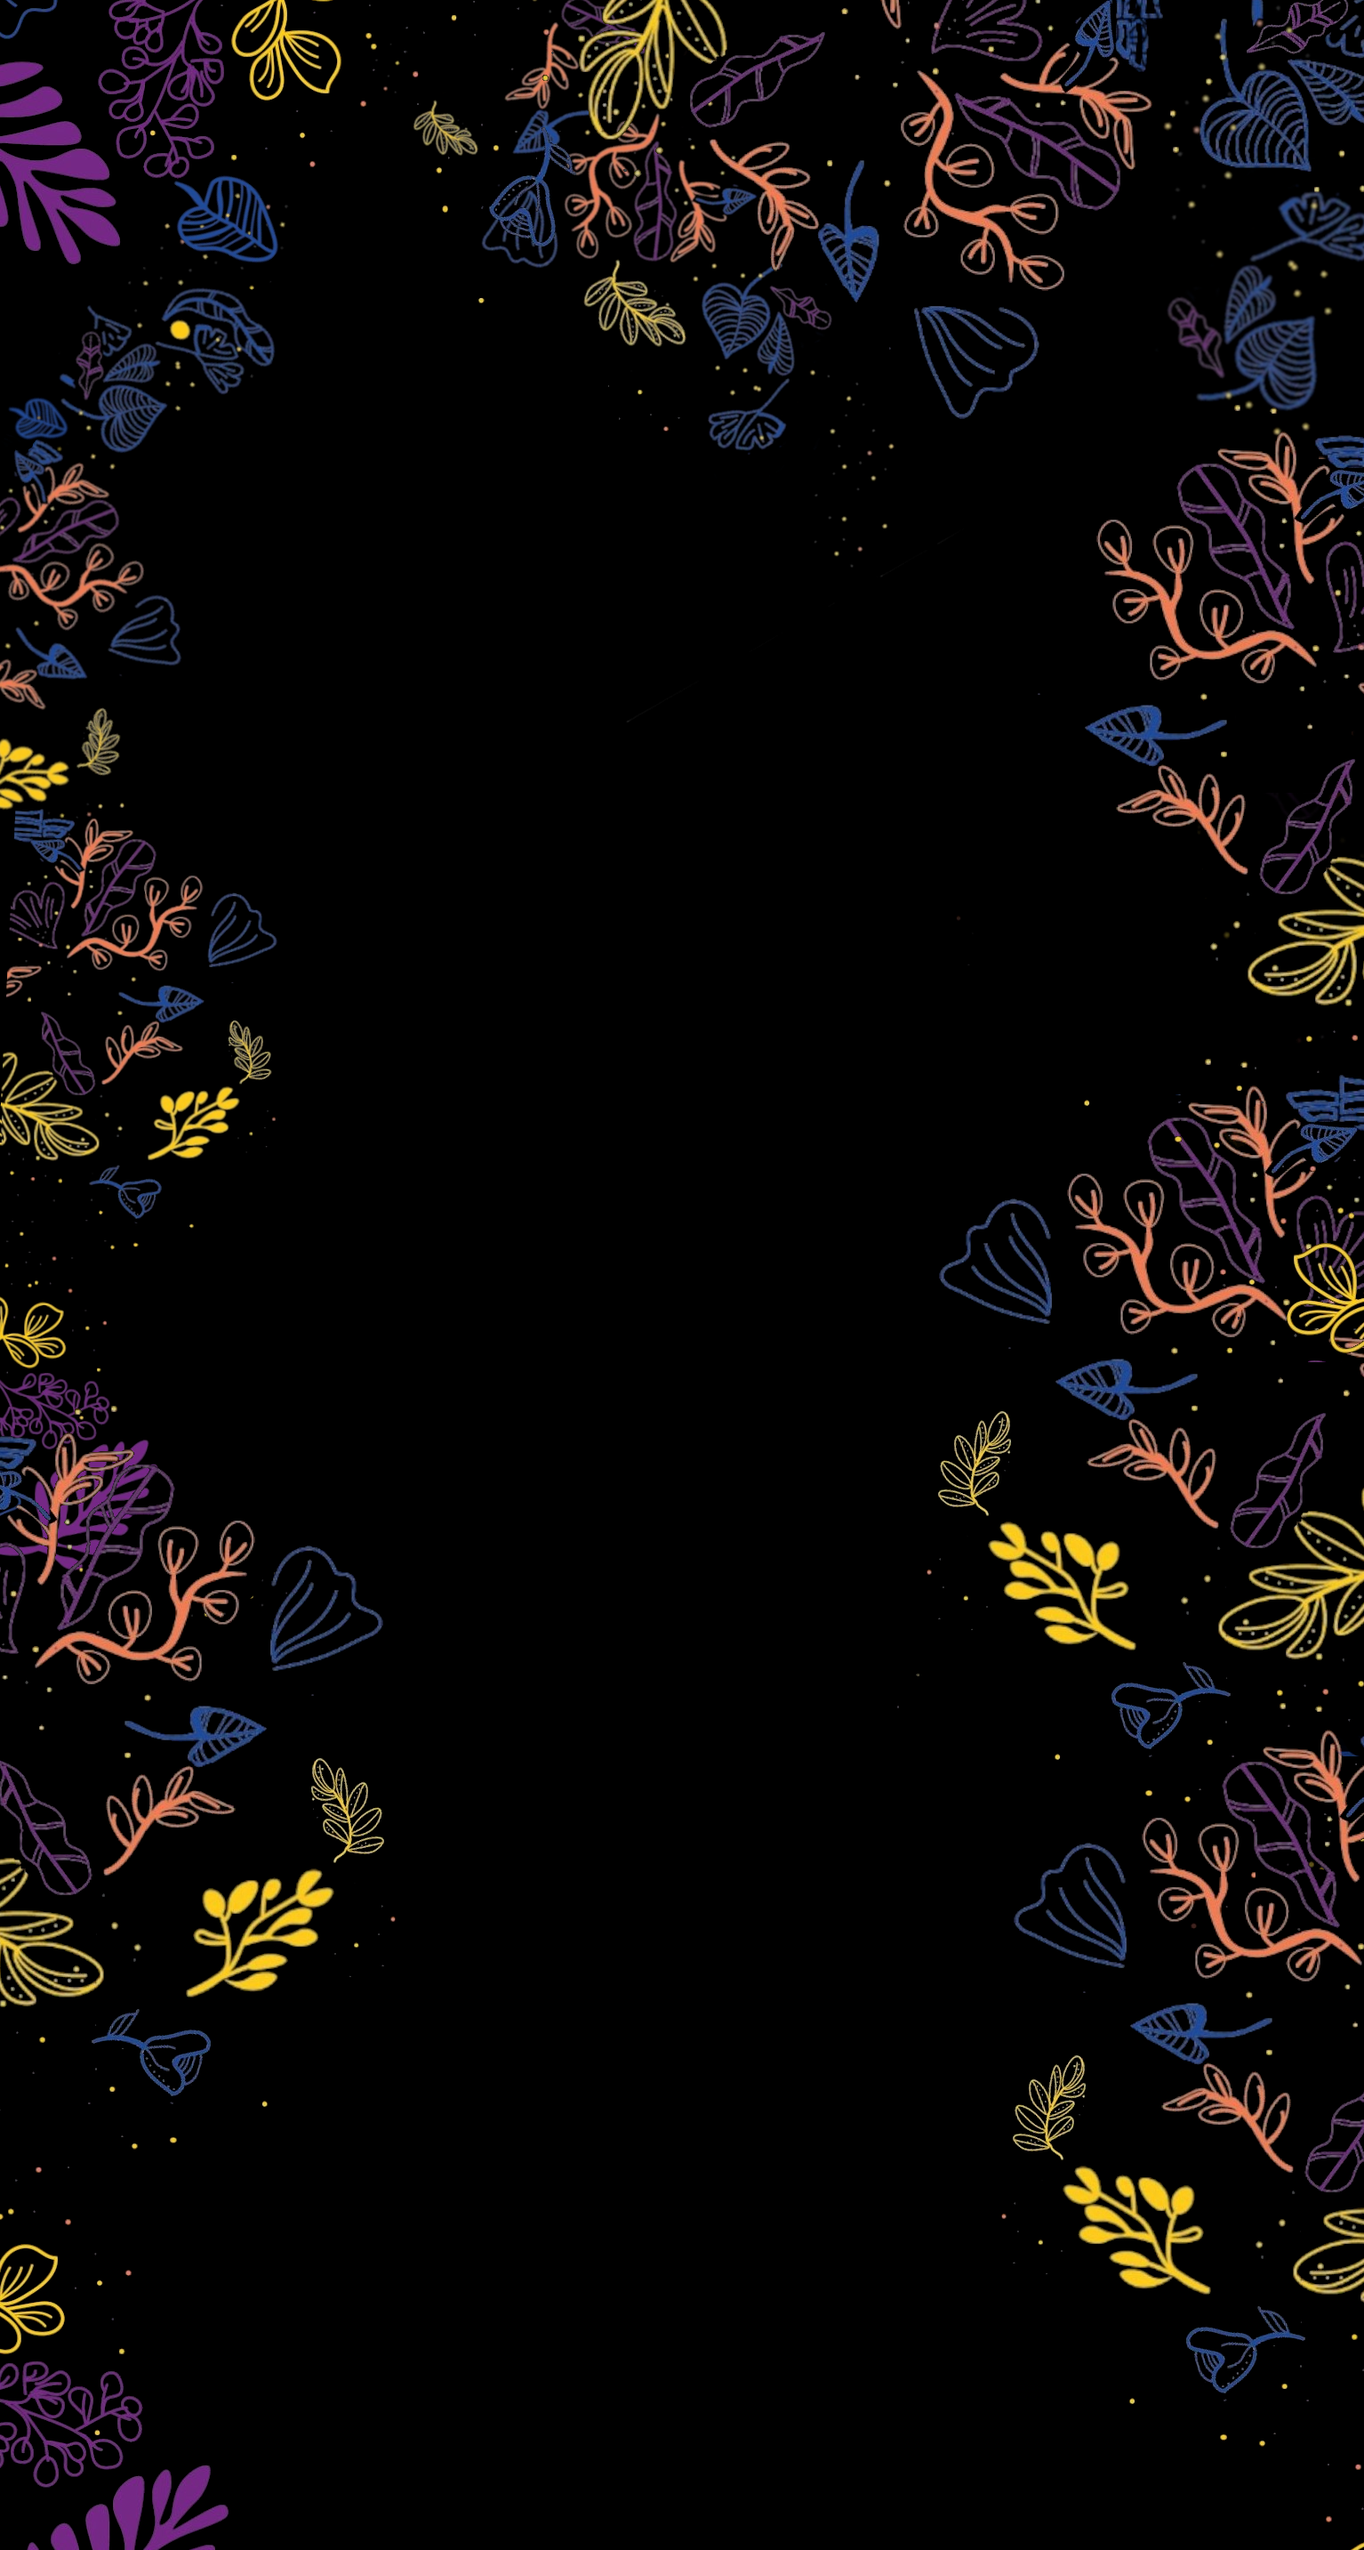
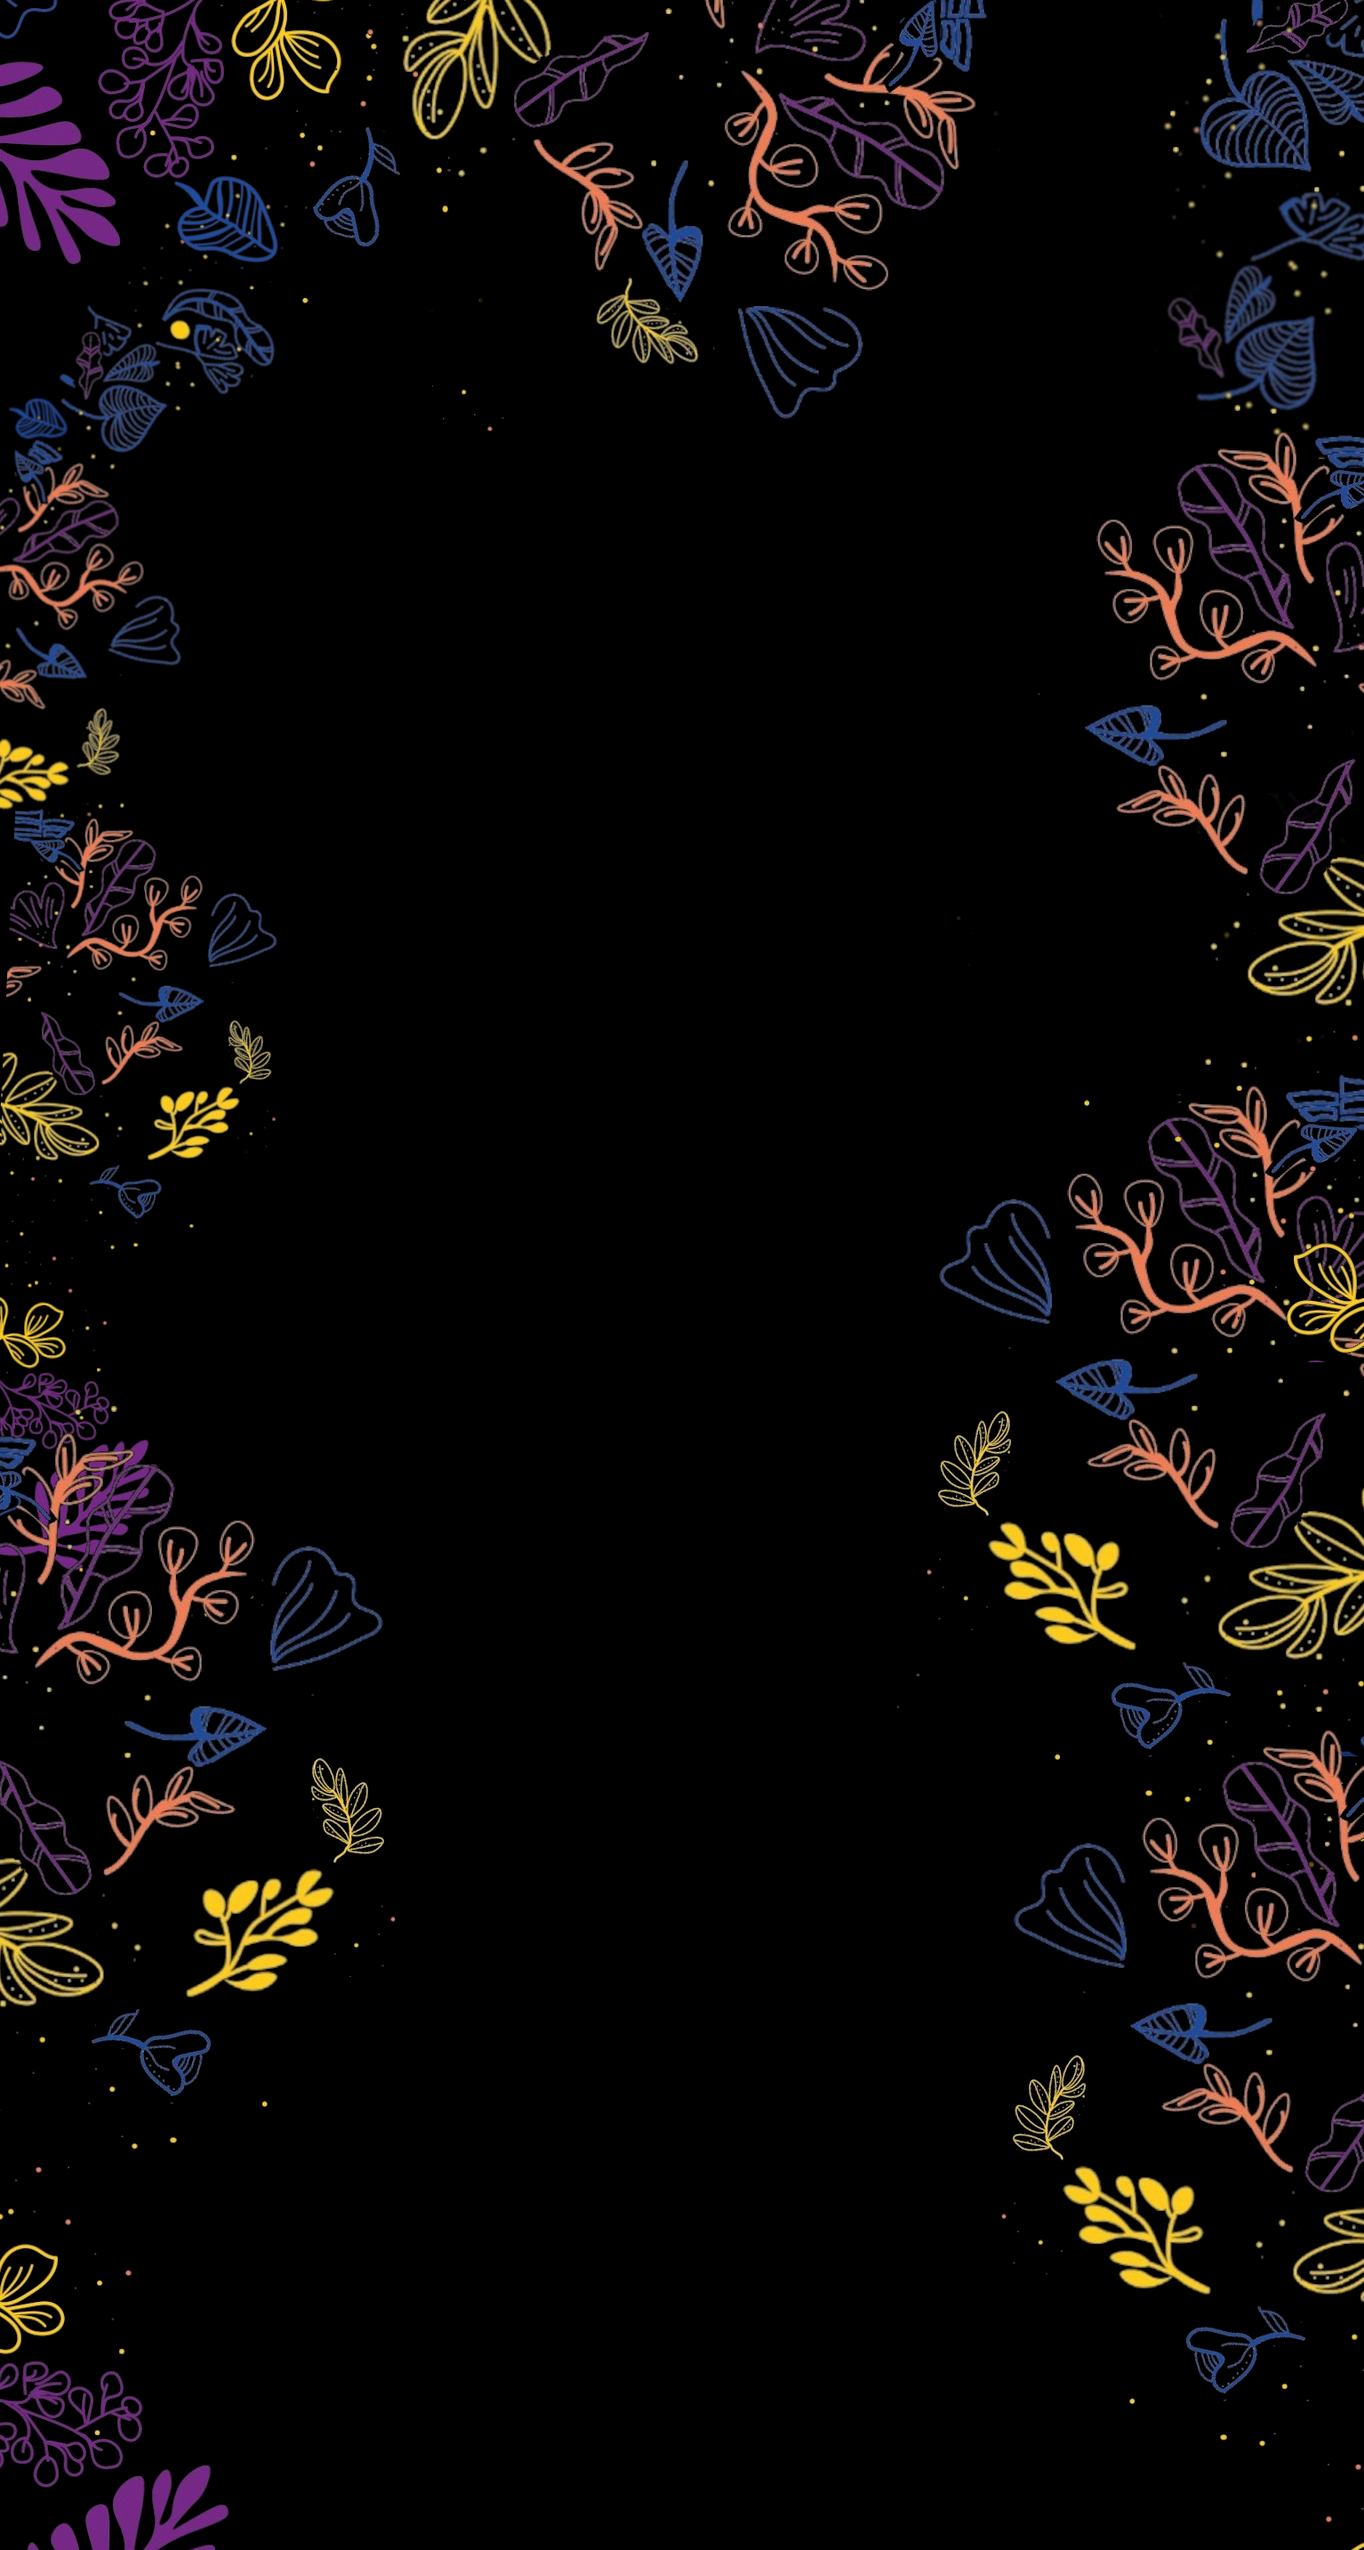
25 de marzo

Changed region(s): [[0.2757, 0.0, 0.8579, 0.1863], [0.2145, 0.0621, 0.2757, 0.0932]]

diff --git a/index.html b/index.html
@@ -20,7 +20,7 @@
 <body data-spy="scroll" data-target=".navbar" data-offset="40" id="home">
         
 
-    <img id="fondo" src="assets/imgs/fondo03.png" alt="">
+    <img id="fondo" src="assets/imgs/fondo05.png" alt="">
 
 
     <!-- Page Navbar -->
@@ -234,18 +234,21 @@
             <!-- About wrapper -->
             <div class="about-wrapper">
                
-                <div class="content">
+                <div class="content7">
                     <!-- row -->
                     <div class="row" >
                         <div class="col-md-8">
-                            <p>Desde el año 2013 enfocamos nuestros talleres en las inquietudes y búsquedas de cada persona. Nuestro objetivo es generar un ámbito agradable para el encuentro con la Música que contribuya al desarrollo de las capacidades, la creatividad y permita un espacio para la exploración y el juego.</p>                        
-                            <p>Dictamos clases individuales y grupales en días y horarios a convenir. Durante el año lectivo organizamos encuentros de repertorio para nutrir el proceso de aprendizaje mediante el intercambio de experiencias.</p>
+                            <h3>Talleres, prácticas y encuentros.</h3>
+                            <p>Nuestro objetivo es generar un ámbito agradable para el encuentro con la Música.</p>
+                            <p>Desde el año 2013 brindamos clases individuales y grupales.</p>
                             <p>Nuestros días y horarios de actividades son de lunes a viernes de 10 a 21 y sábados de 10 a 15hs. Estamos ubicados en el barrio de Caseros <i class="ti-location-pin"></i></p>
-                            <p>También brindamos clases On-Line <i class="ti-rss-alt"></i></p>
-                            <p>Organizamos: <a href=""> Noelia Cabral</a> y <a href=""> Alejandro Rúfolo</a>.</p>
-                            <p><i class="ti-email"></i>  info@espacioraiz.com.ar</p>
-                        <a href="www.instagram.com/espacio.raiz.musica"><i class="ti-instagram"></i> @espacio.raiz.musica</a>
+                            <p>También brindamos clases On-Line al resto del mundo <i class="ti-rss-alt"></i></p>
+                            <p>Organizamos: <a href=""> <b> Noelia Cabral</b></a> y <a href=""> <b> Alejandro Rúfolo</b></a>.</p>
+                            <p><i class="ti-email"></i><b> info@espacioraiz.com.ar</b></p>
+                            <p>Encontranos en en IG
+                            <a href="www.instagram.com/espacio.raiz.musica"><i class="ti-instagram"></i><b> @espacio.raiz.musica</b></a></p>
                         </div>
+
                         <div class="col-md-4">
                             <img src="assets/imgs/fondo01b.jpeg" width="100%">
                         </div>   
@@ -273,14 +276,15 @@
 
                         <div class="col-md-6" style="padding-left: 5%; padding-right: 5%;">
                             <h3>Encuentros de repertorio</h3>
-                            <p> Durante el año organizamos presentaciones para nutrir el proceso de aprendizaje mediante el intercambio de experiencias. </p>
+                            <p> El compartir, el llevar la música en vivo a diferentes partes, el interpretar a nuestrxs artistas, el expresarnos, el ritual, la música, el aprendizaje, el intercambio.
+                                Todo eso y mucho más nos lleva a organizar los encuentros de repertorio en diferentes espacios culturales y teatros.
+                                 </p>
                             <p> <a href="galeria.html"><button class="btn btn-primary">Galería</button> </a>
                             </p>
                             
                            
                            
-                                <p>También estamos en IG</p>
-                                <a href="www.instagram.com/espacio.raiz.musica" target="_blank"><i class="ti-instagram" style="font-size: xx-large;"></i></a>
+                            
                             
                         </div>
                     </div>
@@ -288,6 +292,119 @@
             </div>
         </div>
         
+
+<!-- talleres index  -->
+<div class="container">
+    <!-- About wrapper -->
+    <div class="about-wrapper">
+       
+        <div class="content6">
+
+            <div class="row">
+
+                <div class="content5 col" style="position:relative; background-image: url(assets/imgs/fotos-talleres/tallercanto2.jpg);">
+                    <div id="capatransparente">
+                        <h3>Canto</h3>
+                        <p>Expandir tus posibilidades. La voz es el resultado de la coordinación del aparato fonatorio, respiratorio y postural, como así también de nuestras experiencias y emociones. Es nuestra identidad. Por eso no hay dos voces iguales. Todas las voces son diferentes y todas pueden encontrar la forma más equilibrada de expresión.</p>
+                        <p><a href="canto.html"><button class="btn btn-primary">+ info</button></a></p>
+                    </div>
+                </div>
+
+                 <div class="content5 col" style="position: relative; background-image: url(assets/imgs/fotos-talleres/tallercharango.jpg);">
+                    <div id="capatransparente">
+                        <h3>Charango</h3>
+                        <p>La propuesta es sumergimos en el  repertorio andino y folclórico para descubrir y comprender la identidad y el lenguaje del instrumento.</p>
+                        <p><a href="charango.html"><button class="btn btn-primary">+ info</button> </a>
+                        </p>
+                    </div>
+                </div>
+            </div>
+
+            <div class="row">
+                <div class="content5 col" style="position:relative; background-image: url(assets/imgs/fotos-talleres/tallerguitarra.jpg);">
+                    <div id="capatransparente">
+                        <h3>Guitarra</h3>
+                        <p>El objetivo es vivenciar una experiencia musical y creativa gratificante, cuyo resultado sea el interés por seguir ahondando en el universo de la guitarra.</p>
+                        <p><a href="guitarra.html"><button class="btn btn-primary">+ info</button> </a>
+                        </p>
+                    </div>
+                </div>
+
+                 <div class="content5 col" style="position: relative; background-image: url(assets/imgs/fotos-talleres/tallerlenguaje.jpg);">
+                    <div id="capatransparente">
+                        <h3>Lenguaje musical</h3>
+                        <p>Herramientas y recursos para sacar canciones, transcribir música, componer y leer partituras</p>
+                        <p><a href="lenguajemusical.html"><button class="btn btn-primary">+ info</button> </a>
+                        </p>
+                    </div>
+                </div>
+            </div>
+
+            <div class="row">
+                <div class="content5 col" style="position:relative; background-image: url(assets/imgs/fotos-talleres/tallerrepertorio.jpg);">
+                    <div id="capatransparente">
+                        <h3>Repertorio</h3>
+                        <p>Encaramos el desafío de apropiarnos de la canción.</p>
+                        <p><a href="repertorio.html"><button class="btn btn-primary">+ info</button> </a>
+                        </p>
+                    </div>
+                </div>
+
+                <div class="content5 col" style="position:relative; background-image: url(assets/imgs/fotos-talleres/tallerautoconocimiento.jpeg);">
+                    <div id="capatransparente">
+                        <h3>Ingreso a conservatorios</h3>
+                        <p>Preparamos ingresos a conservatorios adaptándonos al plan de estudios correspondiente. Desarrollamos contenidos de materias como Lenguaje Musical, Armonía, Elementos Técnicos, Instrumento Armónico, etc.</p>
+                        <p><a href="lenguajemusical.html"><button class="btn btn-primary">+ info</button> </a>
+                        </p>
+                    </div>
+                </div>
+
+            </div>
+               
+            </div>
+        </div>   
+    </div>
+</div>
+
+
+
+
+<div class="container">
+    <!-- About wrapper -->
+    <div class="about-wrapper">
+       
+        <div class="content3">
+            <div class="row">
+               
+               
+
+                <div class="col-md-6" style="padding-left: 5%; padding-right: 5%;">
+                    
+                    <h3>Autoconocimiento</h3><h3> a través de la voz</h3>
+                    <p> El compartir, el llevar la música en vivo a diferentes partes, el interpretar a nuestrxs artistas, el expresarnos, el ritual, la música, el aprendizaje, el intercambio.</p>
+                    <p> <a href="galeria.html"><button class="btn btn-primary">+ info</button> </a></p>
+                </div>
+                <div class="col-md-6">
+                    <div>
+                        <img src="assets/imgs/fotos-talleres/tallerautoconocimiento.jpeg" width="60%" style="opacity: .8;">
+                    </div>
+                </div> 
+            </div>
+        </div>   
+    </div>
+</div>
+
+
+
+
+
+
+
+
+
+
+
+
 
   
  <!--CONTACTO-->

diff --git a/assets/css/creative-design.css b/assets/css/creative-design.css
@@ -72,8 +72,6 @@ body {
   text-align: left;
   background-color: #fff;
   padding-top: 60px;
-  
-
 }
 
 [tabindex="-1"]:focus {
@@ -11045,9 +11043,10 @@ pre .code {
 
 /* Page Navbar*/
 nav.page-navbar {
-  min-height: 70px;
+  min-height: 60px;
   padding: 0 30px;
-  background-color:rgb(245 203 118);
+  background-color:black;
+  /**background-color:rgb(245 203 118);*/
   -webkit-transition: all 0.3s linear 0s;
   transition: all 0.3s linear 0s;
 }
@@ -11056,6 +11055,7 @@ nav.page-navbar .navbar-brand {
   font-size: 20px;
   -webkit-transition: all 0.3s linear 0s;
   transition: all 0.3s linear 0s;
+  color: #000; /* Espacio Raiz barra de navegacion*/
 }
 
 nav.page-navbar .navbar-brand .text-dark {
@@ -11063,12 +11063,12 @@ nav.page-navbar .navbar-brand .text-dark {
 }
 
 nav.page-navbar .nav-item .nav-link {
-  color: #000;
+  color: #fff;
   font-weight: 400;
 }
 
 nav.page-navbar .nav-item .nav-link.active {
-  color: #000;
+  color: #FCAA59;
 }
 
 nav.page-navbar .nav-item .btn {
@@ -11398,7 +11398,6 @@ section.height-auto {
   min-height: 500px;
 }
 
-about 
 .about-wrapper {
   margin-left: 50px;
   position: relative;
@@ -11436,9 +11435,64 @@ about
 .about-wrapper .content3 p {
   color: #fff;
   padding: 10px;
-
 }
 
+.about-wrapper .content4 {
+  border: 1px;
+  margin: 10px;
+  padding: 30px;
+  position: relative;
+  text-align: center;
+  color: #EBA661;
+  background-color: #000;
+  }
+
+.about-wrapper .content4 p {
+  color: #fff;
+  padding: 10px;
+}
+
+.about-wrapper .content5 {
+  border-radius: 0.2rem;
+  padding: 0px;
+  position: relative;
+  margin: 10px;
+  text-align: center;
+  color: #EBA661;
+  background-size: 100%;
+  background-position: center;
+}
+
+.about-wrapper .content5 p {
+  color: #fff;
+  padding: 10px;
+}
+
+.about-wrapper .content5 h3 {
+  padding: 20px;
+}
+
+.about-wrapper .content6 {
+  background-color: #fff;
+  box-shadow: 0 3px 80px rgba(173, 181, 189, 0.3), 0 0 10px rgba(173, 181, 189, 0.3) !important;
+  border-radius: 0.2rem;
+  padding: 30px;
+  position: relative;
+  margin: 30px 10px;
+}
+
+.about-wrapper .content7 {
+  background-color: rgba(255, 255, 255, 0.9);
+  box-shadow: 0 3px 80px rgba(173, 181, 189, 0.3), 0 0 10px rgba(173, 181, 189, 0.3) !important;
+  border-radius: 0.2rem;
+  padding: 30px;
+  position: relative;
+  margin: 30px 10px;
+}
+
+.about-wrapper .content7 a {
+  color: #495057;
+}
 
 .about-wrapper .after {
   position: absolute;
@@ -11541,7 +11595,7 @@ about
 
 
 .carrusel-items {
-  margin-top: 35px;
+  margin-top: 0px;
   display: flex;
   overflow-x: hidden ;
   overflow-y: hidden;
@@ -11661,3 +11715,11 @@ margin: 3px;
   color: #dee2e6;
   font-size: 1rem;
 }
+
+/** Talleres en index */
+
+#capatransparente {
+  background-color: rgba(0, 0, 0, 0.65);
+  width: 100%;
+  height: 100%;
+ }

diff --git a/canto.html b/canto.html
@@ -68,7 +68,7 @@
     </div>
 </nav><!-- End of Page Navbar -->   
 
-<img id="fondo" src="assets/imgs/fondo03.png" alt="">   
+<img id="fondo" src="assets/imgs/fondo05.png" alt="">
 
  
     <!--DESCRIPCION-->

diff --git a/charango.html b/charango.html
@@ -67,7 +67,7 @@
 </div>
 </nav><!-- End of Page Navbar -->   
 
-<img id="fondo" src="assets/imgs/fondo03.png" alt="">
+<img id="fondo" src="assets/imgs/fondo05.png" alt="">
 
     
     <!-- TALLER -->

diff --git a/guitarra.html b/guitarra.html
@@ -68,7 +68,7 @@
     </div>
 </nav><!-- End of Page Navbar -->   
 
-<img id="fondo" src="assets/imgs/fondo03.png" alt="">
+<img id="fondo" src="assets/imgs/fondo05.png" alt="">
 
 
     <!--taller-->

diff --git a/lenguajemusical.html b/lenguajemusical.html
@@ -68,7 +68,7 @@
     </div>
 </nav><!-- End of Page Navbar -->   
 
-<img id="fondo" src="assets/imgs/fondo03.png" alt="">
+<img id="fondo" src="assets/imgs/fondo05.png" alt="">
 
     
  

diff --git a/repertorio.html b/repertorio.html
@@ -68,7 +68,7 @@
     </div>
 </nav><!-- End of Page Navbar -->   
 
-<img id="fondo" src="assets/imgs/fondo03.png" alt="">
+<img id="fondo" src="assets/imgs/fondo05.png" alt="">
 
 
  
